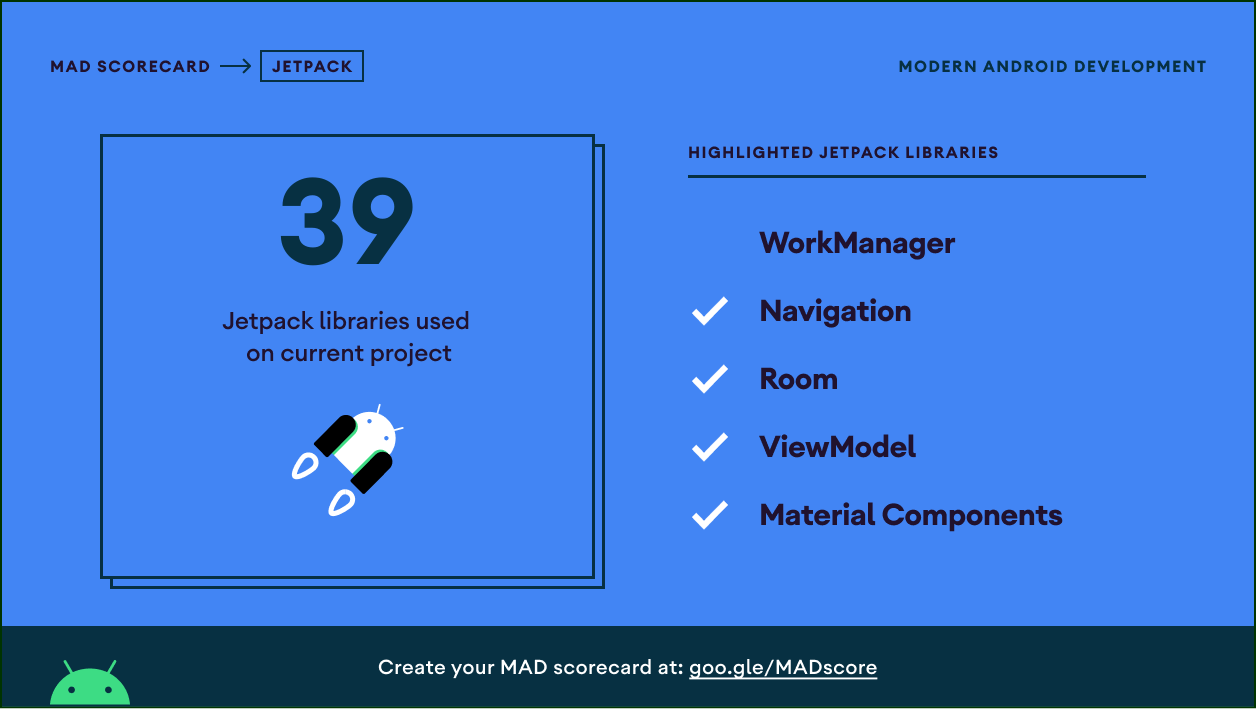
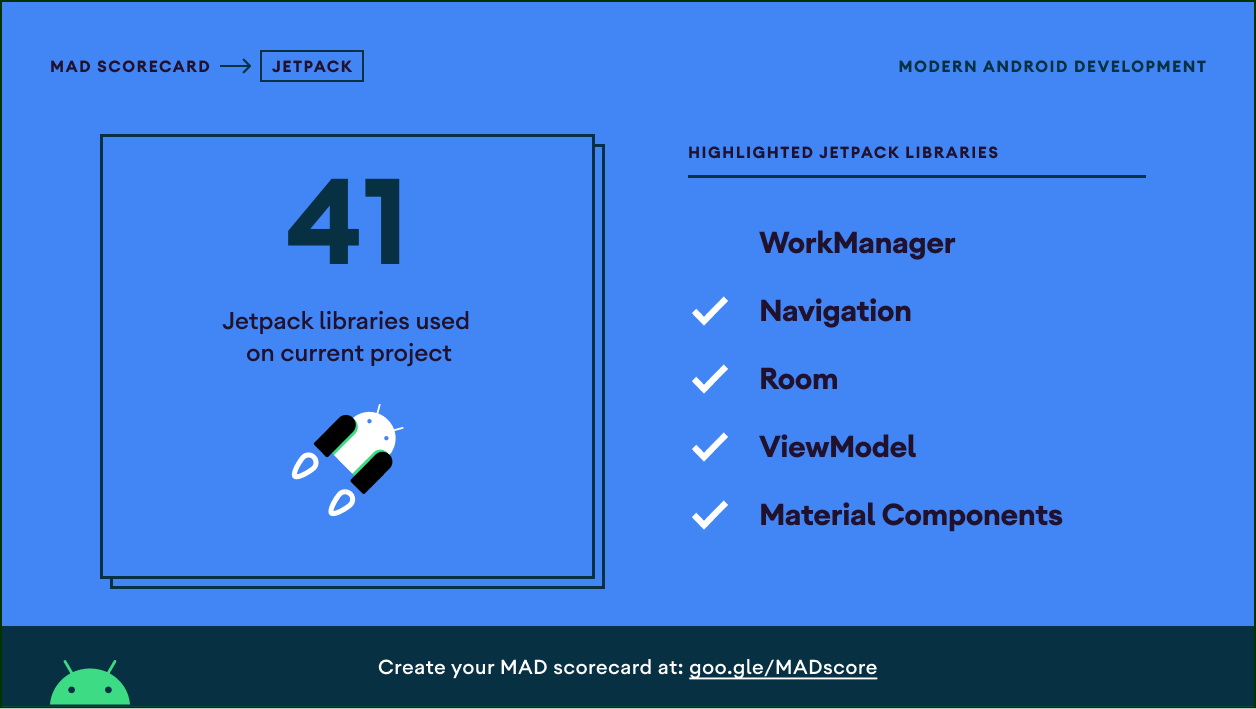
Update readme & MAD Score

Changed region(s): [[0.2174, 0.2482, 0.3416, 0.3724]]

diff --git a/README.md b/README.md
@@ -22,7 +22,7 @@ A blazing fast QR code scanner powered by [Firebase MLKit].
 
 ### Other
 - [AppIntro] - carousell app onboarding
-- [Fast Adapter] - recyclerView adapter
+- [Epoxy] - recyclerView adapter
 - [Khronos] - intuitive date extensions
 - [Koptional] - optional type value
 - [Leak Canary] - memory leak detection
@@ -41,14 +41,11 @@ A blazing fast QR code scanner powered by [Firebase MLKit].
 
 
 ## MAD Score
-
-<details>
-  <summary>Click to expand!</summary>
-
-  ![summary](./github/summary.png)
-  ![kotlin](./github/kotlin.png)
-  ![jetpack](./github/jetpack.png)
-</details>
+![summary](./github/summary.png)
+![kotlin](./github/kotlin.png)
+![jetpack](./github/jetpack.png)
+![studio](./github/studio.png)
+![studio](./github/app_bundle.png)
 
 
 # License
